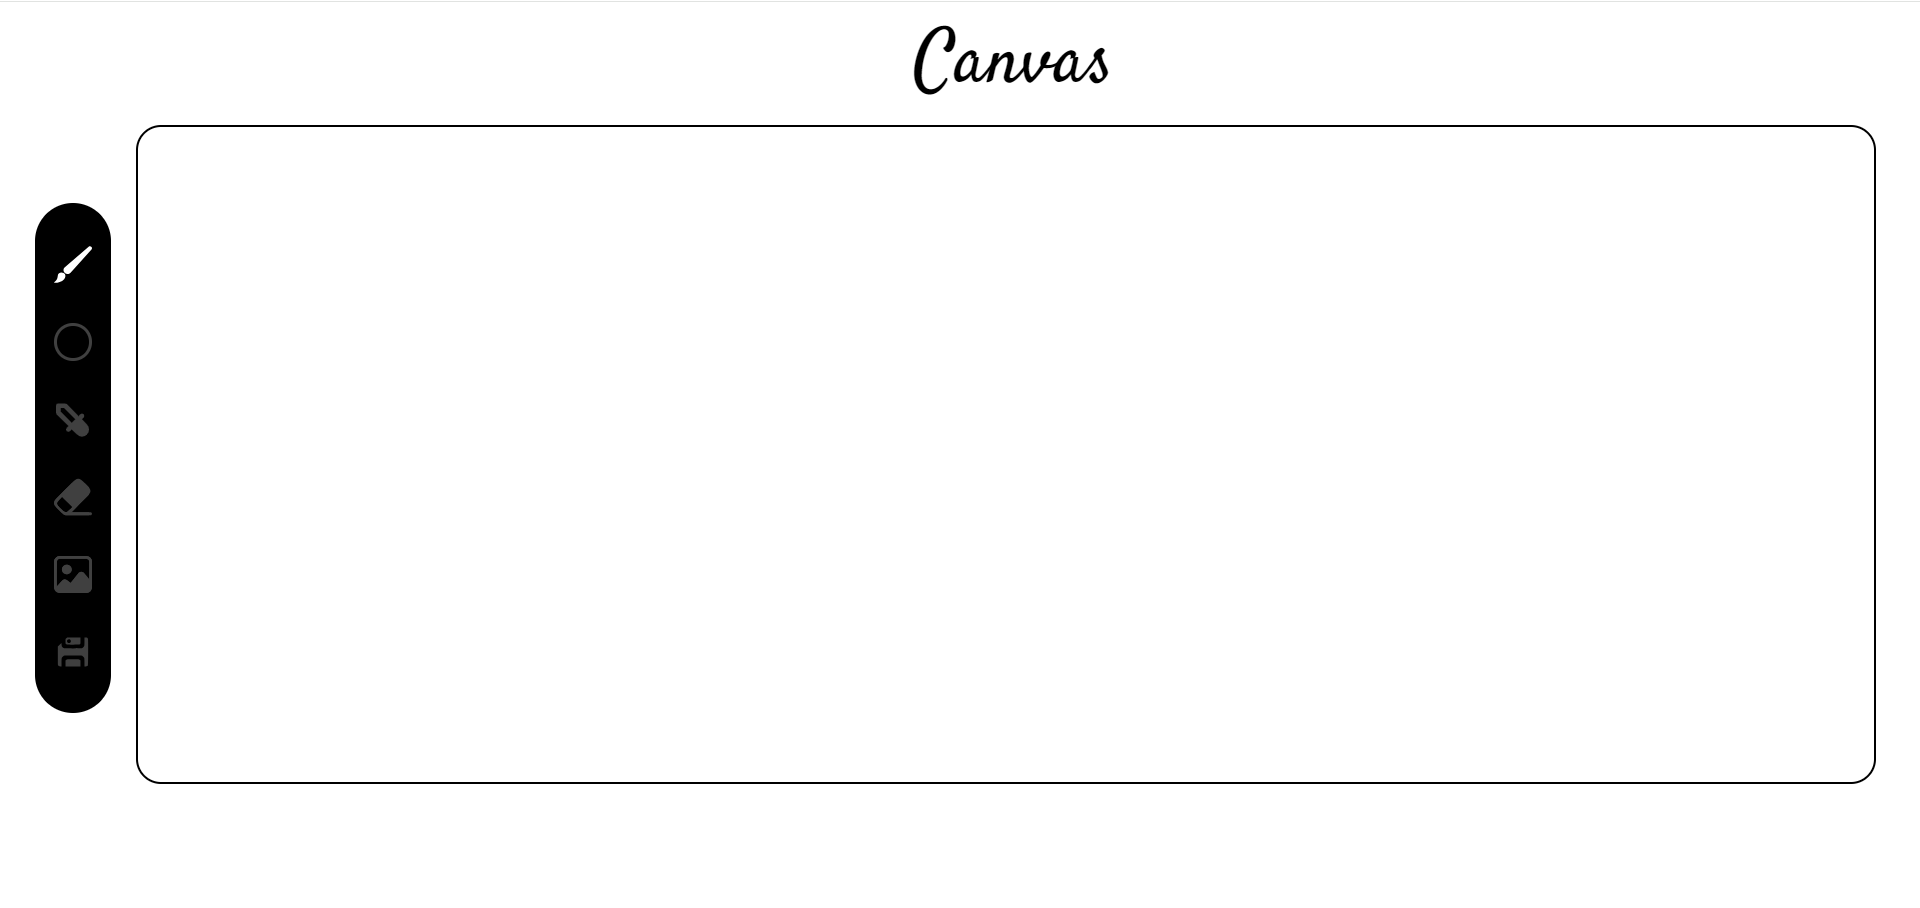
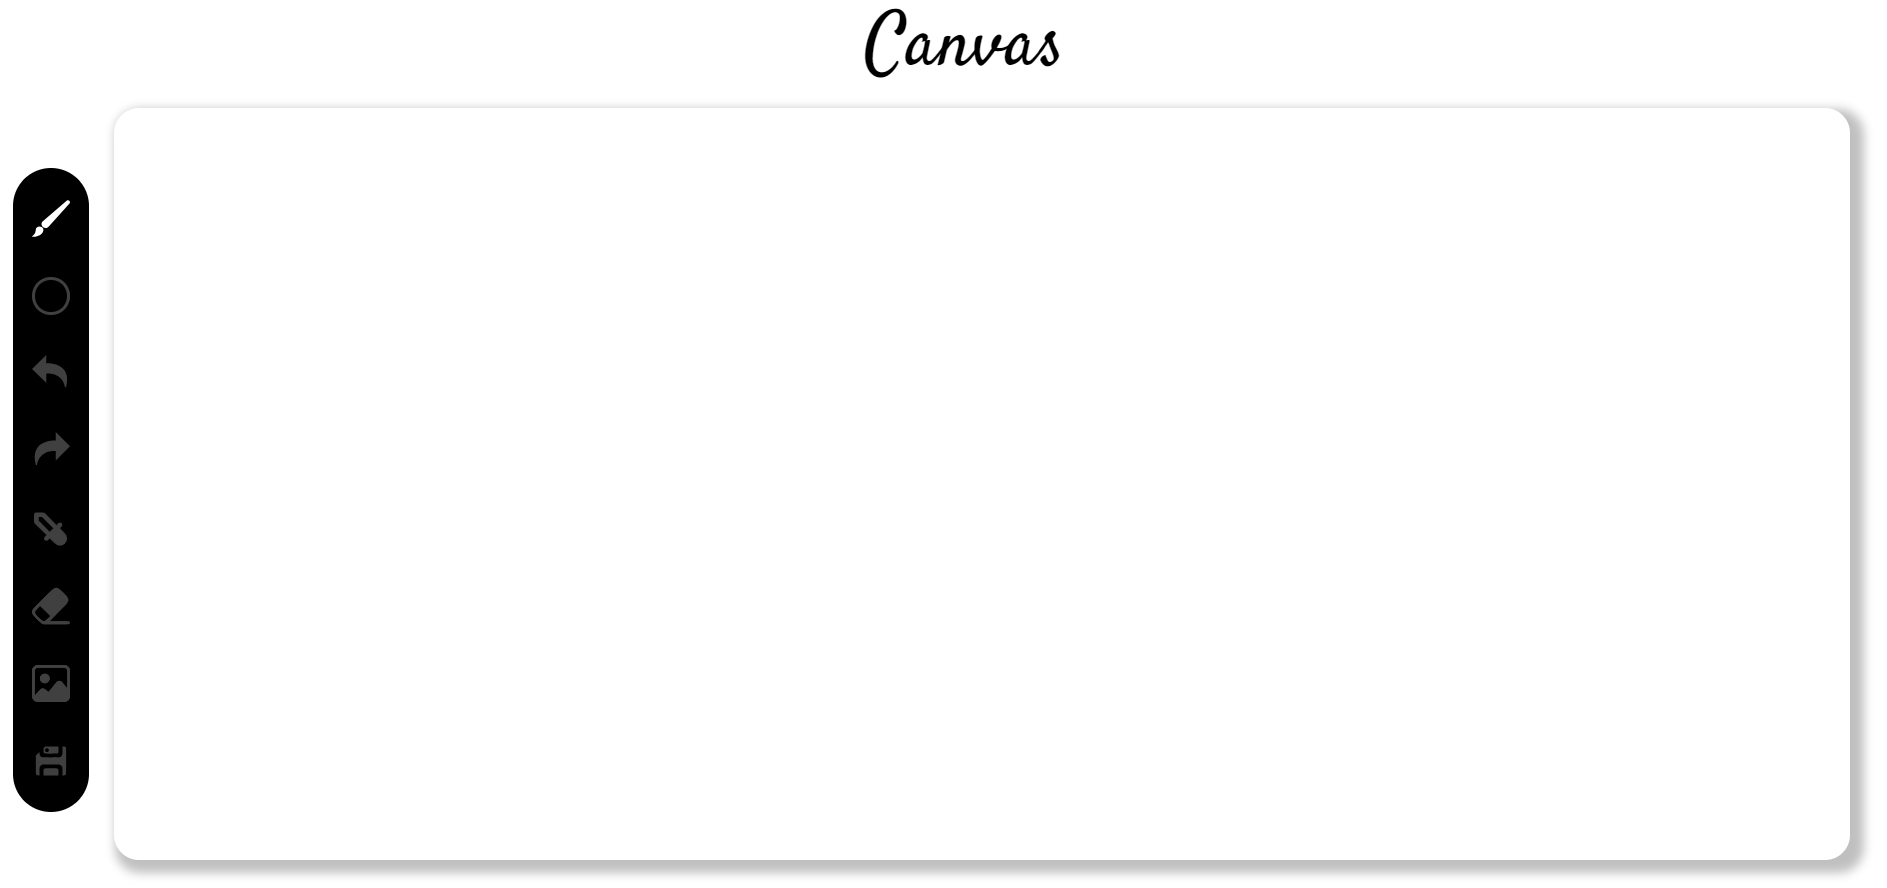
editing Readme.md

Changed region(s): [[0.0615, 0.0, 1.0, 1.0], [0.0, 0.1824, 0.0615, 0.9122]]

diff --git a/src/App.css b/src/App.css
@@ -4,25 +4,6 @@ body{
   background-color: #ffffff;
 }
 
-.motifs{
-  position: absolute;
-}
-
-
-
-#root{
-  width: 100vw;
-
-  --header-height: 86px;
-  --margin-top-header : 7px ;
-  --canvas-cont-margin-top:5px ;
-  --canvas-cont-margin-bottom:20px ;
-
-  position: relative;
-  -webkit-user-select: none; /* Safari */
-  -ms-user-select: none; /* IE 10 and IE 11 */
-  user-select: none; /* Standard syntax */
-}
 
 *{
   box-sizing: border-box;
@@ -37,22 +18,6 @@ body{
 } */
 
 
-header{
-  font-family: "Satisfy", cursive;
-  font-weight: 400;
-  font-style: normal;
-  font-size: 60px;
-  text-align: center;
-  height: var(--header-height);
-  width: calc(100% - 43px);
-  margin-top: var(--margin-top-header);
-  margin-left: 43px;
-  /* position: fixed; */
-  /* top: 7px; */
-  /* --absolute-x:50%; */
-  /* left: calc(var(--absolute-x) + 43px); */
-  /* transform: translate(-50% , 0 ); */
-}
 
 
 #tools-container{
@@ -60,46 +25,46 @@ header{
   flex-direction: column;
   justify-content: center;
   align-items: center;
-  gap: 32px;
   background: black;
   border-radius: 40px;
-  width: 64px;
-  height: 515px;
 }
 
 #painter-container{
-  /* position: fixed; */
+  width: 100vw;
+  height: 100vh;
   display: flex;
   align-items: center;
   flex-direction: row;
   gap: 20px;
+  padding: 0 26px 20px;
+}
 
+@media only screen and (min-width:744px) {
+
+
+  #tools-container{
+    gap: 32px;
+    width: 64px;
+    height: 515px;
+  }
   
-  margin-top:var(--canvas-cont-margin-top) ;
-  margin-bottom:var(--canvas-cont-margin-bottom);
-  margin-left: 28px;
-  margin-right: 28px;
-  
-  min-height: 522px;
-  min-width: 360px;
-  width: calc(100vw - 56px);
-  height: calc(100vh - (var(--header-height) + var(--margin-top-header) + var(--canvas-cont-margin-bottom) + var(--canvas-cont-margin-top)));
-}
-
-/* @media only screen and (min-width:1280px) {
-  #painter-container{
-    height: 100%;
-    min-height: 590px;
-  }
-}
-@media only screen and (min-width:744px) and (max-width:1279px) {
-  #painter-container{
-    height: 999px;
+  #painter-container{ 
+    min-height: 720px;
+    padding-top: 98px;   
+    
   }
 }
 
-@media only screen and (min-width:320px) and (max-width:743px){
-  #painter-container{
-    height: 450px;
+@media only screen and (max-width:743px) {
+  #tools-container{
+    gap: 20px;
+    width: 32px;
+    height: 304px;
+  } 
+
+  #painter-container{ 
+    min-width: 320px;
+    min-height: 568px;
+    padding-top: 58px;   
   }
-} */
+}

diff --git a/src/modules/custom-color-picker.jsx b/src/modules/custom-color-picker.jsx
@@ -5,21 +5,23 @@ import "./custom-color-picker.css"
 
 function CustomColorPicker({color , setColor}){
     
-    const colorPickerCheckboxLabelRef = useRef(null)
+    const colorPickedRef = useRef(null)
 
 
     function handleNewColor(color){
         setColor(color.hex);
-        colorPickerCheckboxLabelRef.current.style.backgroundColor = color.hex;
+        colorPickedRef.current.style.backgroundColor = color.hex;
     }
 
     useEffect(()=>{
-        colorPickerCheckboxLabelRef.current.style.backgroundColor = color;
+        colorPickedRef.current.style.backgroundColor = color;
     },[color])
     return(
         <div id="color-picker-container">
-            <input type="checkbox" id="color-picker-checkbox"/>
-            <label htmlFor="color-picker-checkbox" id="color-picker-checkbox-label" ref={colorPickerCheckboxLabelRef}></label>
+            <input type="checkbox" id="color-picker-checkbox" className="tool-checkbox"/>
+            <label htmlFor="color-picker-checkbox" id="color-picker-checkbox-label" className="tool-checkbox-label">
+                <div className="image" ref={colorPickedRef}></div>
+            </label>
             <div id="custom-color-picker">
                 <SketchPicker color={color} onChange={handleNewColor} disableAlpha = {true} />
             </div>

diff --git a/src/modules/canvas.css b/src/modules/canvas.css
@@ -2,8 +2,36 @@
     display: none;
 }
 
+
+header{
+    font-family: "Satisfy", cursive;
+    font-weight: 400;
+    font-style: normal;
+    text-align: center;
+    position: absolute;
+    top: calc(-5px - var(--header-height) );
+    width: var(--canvas-width);
+}
+
+@media only screen and (min-width:744px) {
+    header{
+        font-size: 60px;
+        --header-height : 86px;
+        height: var(--header-height);
+    }
+}
+@media only screen and (max-width:743px) {
+    header{
+        font-size: 30px;
+        --header-height : 43px;
+        height: var(--header-height);
+    }
+}
+
+
 #canvas-container{
-	width: 100%;
+    --canvas-width:100%;
+	width: var(--canvas-width);
 	height: 100%;
     position: relative;
     touch-action: none;

diff --git a/src/modules/custom-color-picker.css b/src/modules/custom-color-picker.css
@@ -2,17 +2,15 @@
     display: none;
 }
 
-#color-picker-checkbox-label{
+#color-picker-checkbox-label .image{
     display: block;
-    width: 30px;
-    height: 30px;
-    opacity: 0.25;
     border-radius: 50%;
     border: 3px solid white;
     
 }
 
 #color-picker-container{
+    touch-action: none;
     position: relative;
 }
 
@@ -22,12 +20,15 @@
     z-index: 9;
 }
 
-#color-picker-checkbox:checked ~ #color-picker-checkbox-label{
-    opacity: 1;
-}
 
 #color-picker-checkbox:checked ~ #custom-color-picker{
     display: block;
     top: 0;
     left: 67px;
+}
+
+@media only screen and (max-width:743px) {
+    #color-picker-checkbox-label .image{
+        border-width: 1px;
+    }
 }

diff --git a/src/modules/tool-selector.css b/src/modules/tool-selector.css
@@ -2,22 +2,26 @@
     display: none;
 }
 
-/* .tool-checkbox-label{
-    display: block;
-    width: 60px;
-    height: 60px;
-    display: flex;
-    align-items: center;
-    justify-content: center;
-    border-radius: 50%;
-} */
 
 .tool-checkbox-label .image{
-    width: 30px;
-    height: 30px; 
     opacity: 0.25;
 }
 
+
 .tool-checkbox:checked + .tool-checkbox-label .image{
     opacity: 1.0;
+}
+
+@media only screen and (min-width:744px) {
+    .tool-checkbox-label .image{
+        width: 30px;
+        height: 30px; 
+    }
+}
+
+@media only screen and (max-width:743px) {
+    .tool-checkbox-label .image{
+        width: 15px;
+        height: 15px; 
+    }
 }

diff --git a/src/App.jsx b/src/App.jsx
@@ -29,10 +29,6 @@ function App() {
 
     return (
     <>
-      <div id="motif1" className="motifs"></div>
-      <div id="motif2" className="motifs"></div>
-      <div id="motif3" className="motifs"></div>
-      <header>Canvas</header>
       <div id="painter-container">
         <div id="tools-container">
           <PainterPen lineWidth={lineWidth} canvas={canvas} color={color} setIsRedoWorking={setIsRedoWorking} setIsUndoWorking={setIsUndoWorking} setPainterPenCheckbox={setPainterPenCheckbox} drawnList={drawnList} redos={redos}/>

diff --git a/src/modules/canvas.jsx b/src/modules/canvas.jsx
@@ -39,6 +39,7 @@ function Canvas({id, setContext , setCanvas , setEyeDropperCursorCheckbox , draw
     return (
       <>
         <div id="canvas-container" ref={canvasContainerRef}>
+          <header>Canvas</header>
           <input  type="checkbox" id="eyeDropperCursorCheckbox" ref={eyeDropperCursorCheckboxRef} />
           <canvas ref={canvasRef} width={canvasWidth} height={canvasHeight} id = {id}></canvas>
         </div>

diff --git a/README.md b/README.md
@@ -1,29 +1,75 @@
 # Painter Web App (Canvas) 🎨
 
-- ## responsive design prototyped using figma
-  
-![responsive design feature](./readme-images/image.png)
+**A feature-rich canvas painting application built with React.**
 
-- ## made functionality using react
+This web app utilizes React for a dynamic user interface and leverages Figma for prototyping a responsive design that adapts seamlessly across various devices.
 
-- ## image uploading  
-  
-![image uploading feature](./readme-images/image-1.png)
+## Key Technologies
 
-- ## image moving  
+- ### React
 
-![image moving feature](./readme-images/image-3.png)
+- ### Vite
 
-- ## canvas saving as png file with transparent background
+- ### Canvas API
 
-![saving canvas painting feature](./readme-images/image-4.png)
+- ### Figma (for Prototyping)
 
-- ## drawing using brush  
+- ### Git & Github
 
-- ## picking color from the canvas using eyedropper
+## Features
 
-- ## selecting color using color-picker-tool
+- ### Image Uploading
 
-![color picker tool](./readme-images/image-6.png)
+Import your own images and add it to canvas.
 
-- ## erasing the canvas (not adding white-color) download it to check
+- ### Image Manipulation
+
+Easily move and position uploaded images.
+
+- ### Brush Painting
+
+- ### Eraser Tool
+
+- ### Color Picking
+
+Select colors directly from the canvas using the eyedropper tool or leverage the color picker for precise control.
+
+- ### Undo/Redo Functionality
+
+Experiment freely with the ability to undo and redo actions.
+
+- ### Canvas Saving as PNG
+
+Save your finished masterpiece as a PNG file.
+
+## Screenshots
+
+- Responsive Design (Figma Prototype)
+
+![prototype](./readme-images/prototype.png)
+
+- Image Uploading
+
+![image-uploading](./readme-images/imageUploading.png)
+
+- Image Moving
+
+![image-moving](./readme-images/imageMoving.png)
+
+- Color Picker Tool
+
+![Color-picker](./readme-images/colorPicker.png)
+
+- Eye Dropper Tool
+
+![eye-dropper](./readme-images/eyeDropper.png)
+
+- Undo/Redo Functionality
+
+![undo-redo](./readme-images/undoRedo.png)
+
+- Canvas Saving as PNG
+
+![canvas-saving](./readme-images/canvasSaving.png)
+
+This Painter Web App effectively showcases my capabilities in building dynamic and interactive web applications using React and modern web technologies.
